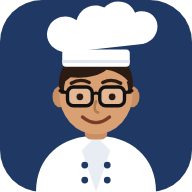
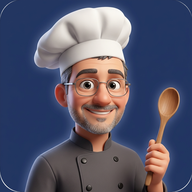
Ratios cocina: icono nuevo del cocinero (dibujo 3D)
Claude-Session: https://claude.ai/code/session_01VRpKM6nmCAyK4D31nK3NGz

diff --git a/ratios/index.html b/ratios/index.html
@@ -7,7 +7,6 @@
 <meta name="apple-mobile-web-app-capable" content="yes">
 <meta name="apple-mobile-web-app-title" content="Ratios">
 <title>Ratios cocina</title>
-<link rel="icon" type="image/svg+xml" href="icono.svg">
 <link rel="icon" type="image/png" sizes="32x32" href="icono-32.png">
 <link rel="apple-touch-icon" href="icono-180.png">
 <link rel="manifest" href="ratios.webmanifest">
@@ -17,7 +16,7 @@
 body{margin:0;font-family:-apple-system,BlinkMacSystemFont,"Segoe UI",Roboto,Arial,sans-serif;background:var(--fondo);color:var(--txt)}
 header{position:sticky;top:0;z-index:10;background:var(--azul);color:#fff;padding:calc(10px + env(safe-area-inset-top)) 14px 12px;box-shadow:0 2px 8px rgba(0,0,0,.15)}
 .top{display:flex;align-items:center;gap:10px}
-.logo{width:40px;height:40px;border-radius:10px;box-shadow:0 0 0 2px rgba(255,255,255,.35)}
+.logo{width:46px;height:46px;border-radius:10px;box-shadow:0 0 0 2px rgba(255,255,255,.35)}
 h1{font-size:19px;margin:0;font-weight:700;letter-spacing:.3px}
 .tabs{display:flex;gap:6px;margin-top:10px}
 .tab{flex:1;border:0;border-radius:10px;padding:11px 4px;font-size:15px;font-weight:700;background:rgba(255,255,255,.14);color:#fff}
@@ -55,7 +54,7 @@ main{padding:12px 12px 40px;max-width:720px;margin:0 auto}
 </head>
 <body>
 <header>
-  <div class="top"><img src="icono.svg" alt="" class="logo"><h1>RATIOS COCINA</h1></div>
+  <div class="top"><img src="icono-96.png" alt="" class="logo"><h1>RATIOS COCINA</h1></div>
   <div class="tabs">
     <button class="tab on" data-t="buffet">Buffet</button>
     <button class="tab" data-t="cocktail">Cocktail</button>
